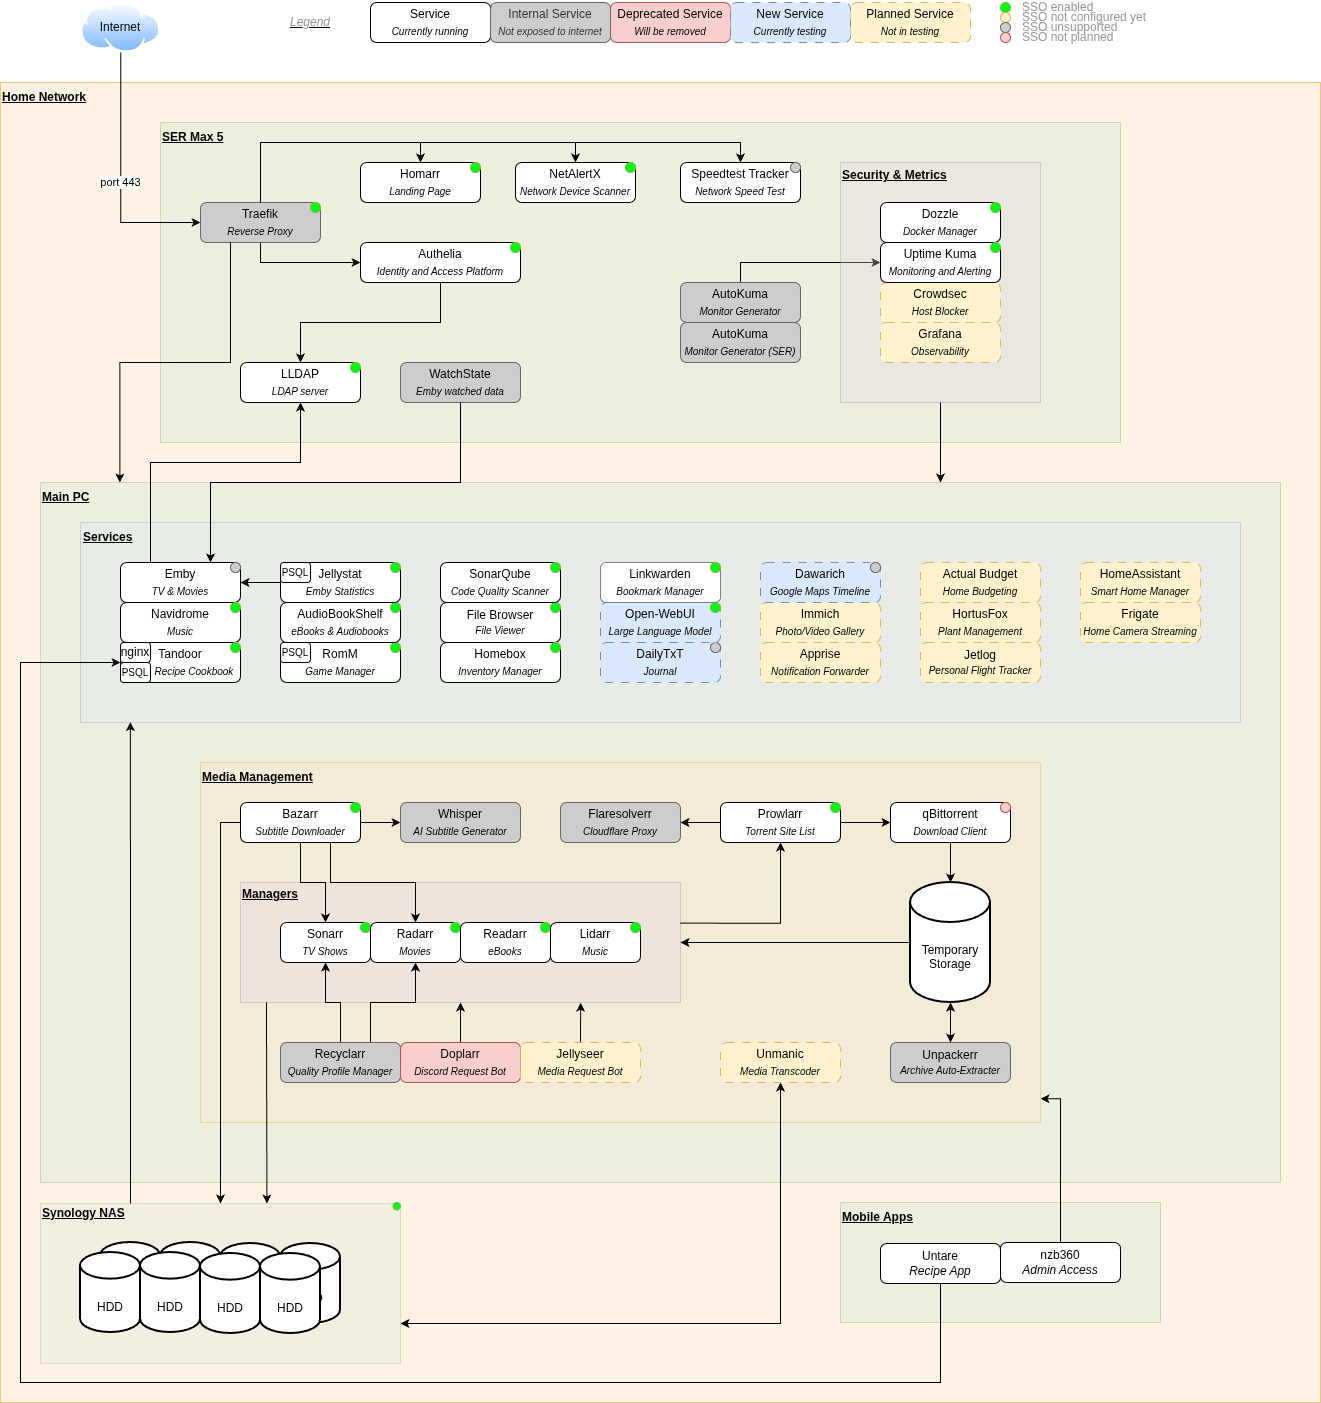
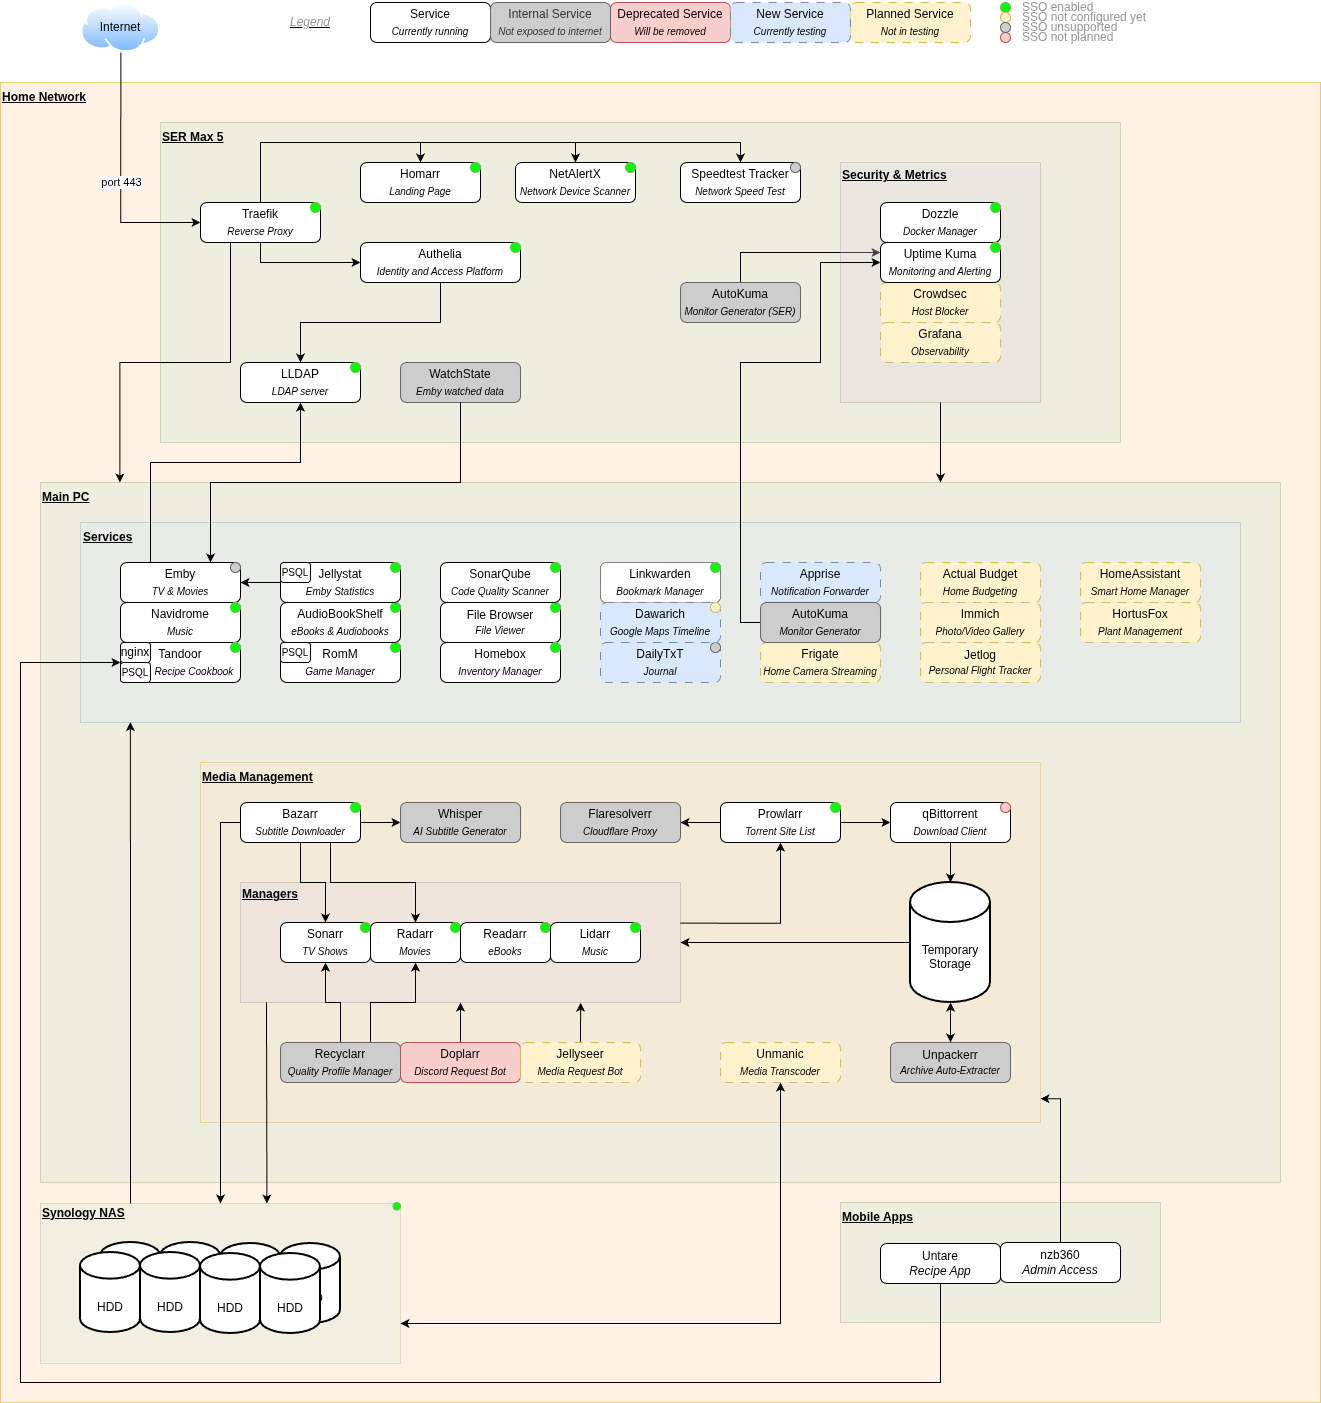
[Ollama] Removing service

diff --git a/README.md b/README.md
@@ -44,12 +44,6 @@ The following services allow you to login/create an account using the IdP:
 - SonarQube
 - Tandoor
 
-### X-Authentik-* Headers (TBC)
-
-The following services can't be logged in using the local URL, as they require X-Authentik-* headers to be forwarded:
-
-- Ollama
-
 ### No Internal Auth
 
 The following services don't have any authentication of their own (or it is disabled), so the IdP is the only authentication:
@@ -500,31 +494,6 @@ docker compose -f docker-compose-ser.yml restart netalert
 
 **NOTE:** This isn't robust to version upgrades, a fresh installation with new config entries needs to be compared.
 An [issue has been raised](https://github.com/jokob-sk/NetAlertX/issues/687), but no ETA on if/when it might be done.
-
-### Ollama (TBC)
-
-#### Initial Setup
-
-The container first comes up with no users and no models. Neither of these can be set programatically, so on the first start-up some actions must be
-performed.
-
-##### Create Admin User
-
-In order to create the admin user, the `ENABLE_SIGNUP` environment variable must be set to **true**. Log in through the URL configured by the IdP,
-which will pass the **X-Authentik-Email** header value. This will create an admin account for your email address.
-
-Once created, update `ENABLE_SIGNUP` variable to **false**. Then perform a `docker compose down ollama` and `docker compose up --build -d ollama` to
-rebuild the container with the updated value.
-
-##### Download Models
-
-Next the [models](https://ollama.com/library) need to be downloaded. This can be done through the UI itself, or you can `docker exec` into the
-container and run the following commands:
-
-```bash
-ollama pull llama3.1:8b         # Main model
-ollama pull llama2-uncensored   # Older version of the model, but with no filters
-```
 
 ### RomM
 
